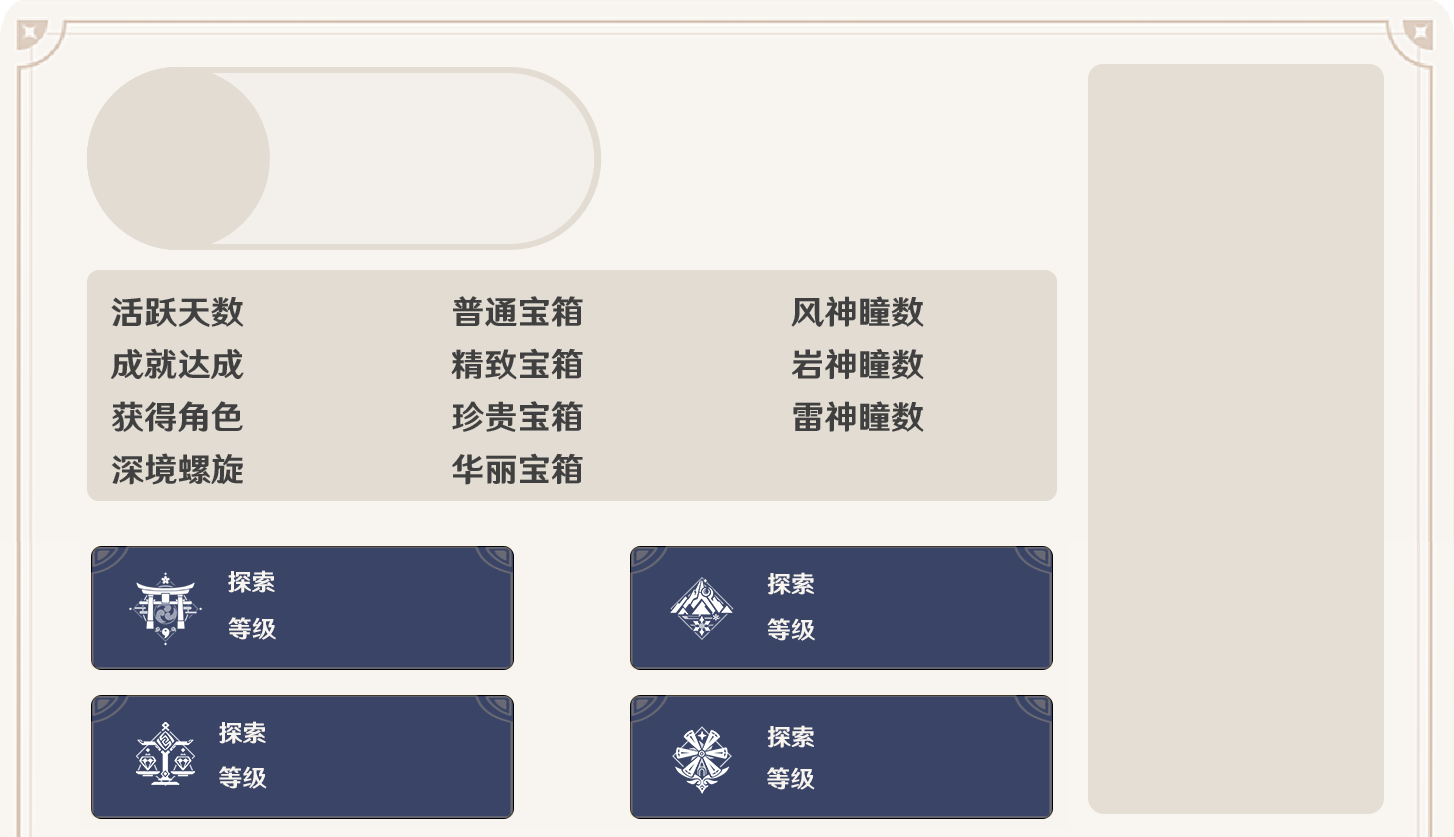
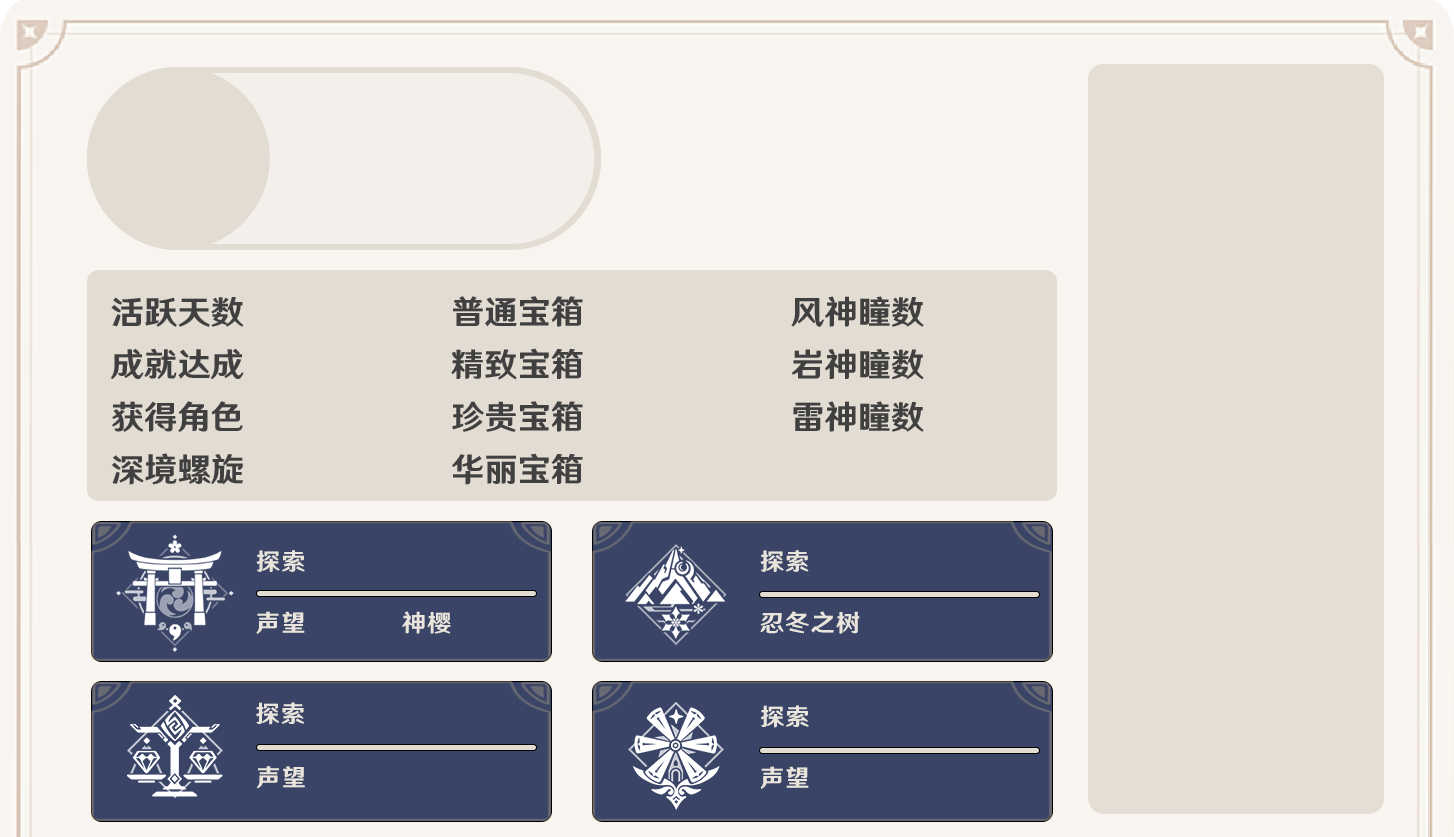
update genshin card

Changed region(s): [[0.0619, 0.6213, 0.7428, 0.994]]

diff --git a/discord_bot/genshin_user.py b/discord_bot/genshin_user.py
@@ -149,52 +149,58 @@ async def draw_user_img(uid: int, user_stats: dict) -> BytesIO:
     world_explorations = user_stats['world_explorations']
     # id=4 稻妻
     text_draw.text(
-        (300, 568),
+        (400, 548),
         f"{world_explorations[0]['exploration_percentage'] / 10}%",
         '#fff',
         set_font(24),
     )
     text_draw.text(
-        (300, 616),
-        f"Lv.{world_explorations[0]['level']} / Lv.{world_explorations[0]['offerings'][0]['level']}(神樱)",
+        (320, 610),
+        f"Lv.{world_explorations[0]['level']}",
+        '#fff',
+        set_font(24),
+    )
+    text_draw.text(
+        (462, 610),
+        f"Lv.{world_explorations[0]['offerings'][0]['level']}",
         '#fff',
         set_font(24),
     )
     # id=3 龙脊雪山
     text_draw.text(
-        (840, 568),
+        (900, 548),
         f"{world_explorations[1]['exploration_percentage'] / 10}%",
         '#fff',
         set_font(24),
     )
     text_draw.text(
-        (840, 616),
+        (900, 610),
         f"Lv.{world_explorations[1]['level']}",
         '#fff',
         set_font(24),
     )
     # id=2 璃月
     text_draw.text(
-        (300, 720),
+        (400, 700),
         f"{world_explorations[2]['exploration_percentage'] / 10}%",
         '#fff',
         set_font(24),
     )
     text_draw.text(
-        (300, 768),
+        (400, 764),
         f"Lv.{world_explorations[2]['level']}",
         '#fff',
         set_font(24),
     )
     # id=1 蒙德
     text_draw.text(
-        (840, 720),
+        (900, 700),
         f"{world_explorations[3]['exploration_percentage'] / 10}%",
         '#fff',
         set_font(24),
     )
     text_draw.text(
-        (840, 768),
+        (900, 764),
         f"Lv.{world_explorations[3]['level']}",
         '#fff',
         set_font(24),
